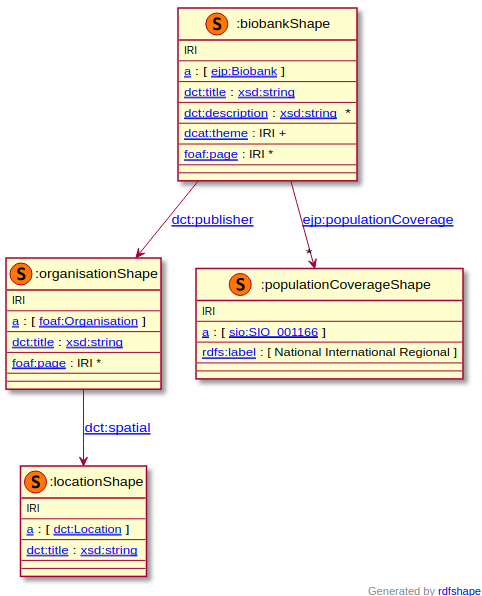
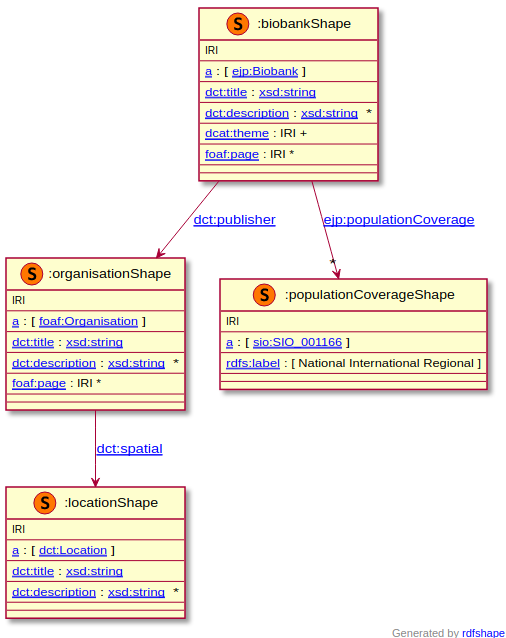
Description property added

Changed region(s): [[0.0, 0.0, 0.9959, 0.9966], [0.7469, 0.9664, 0.9959, 1.0]]

diff --git a/docs/patient-registry.md b/docs/patient-registry.md
@@ -69,6 +69,7 @@ PREFIX rdfs:  <http://www.w3.org/2000/01/rdf-schema#>
 :patientRegistryShape IRI {
   a [ejp:PatientRegistry];
   dct:title xsd:string;
+  dct:description xsd:string*;
   ejp:populationCoverage @:populationCoverageShape*;
   dcat:theme IRI+;
   dct:publisher @:organisationShape;
@@ -78,12 +79,14 @@ PREFIX rdfs:  <http://www.w3.org/2000/01/rdf-schema#>
 :locationShape IRI {
   a [dct:Location];
   dct:title xsd:string;
+  dct:description xsd:string*;
 }
 
 :organisationShape IRI {
   a [foaf:Organisation];
   dct:title xsd:string;
-  dct:spatial @:locationShape;
+  dct:description xsd:string*;
+  dct:spatial @:locationShape*;
   foaf:page IRI*
 }
 

diff --git a/docs/catalog.md b/docs/catalog.md
@@ -57,6 +57,7 @@ PREFIX xsd: <http://www.w3.org/2001/XMLSchema#>
 :catalogShape IRI {
   a [dcat:Catalog];
   dct:title xsd:string;
+  dct:description xsd:string*;
   dct:publisher @:organisationShape;
   ejp:patientRegistry IRI*;
   ejp:biobank IRI*;
@@ -66,12 +67,14 @@ PREFIX xsd: <http://www.w3.org/2001/XMLSchema#>
 :locationShape IRI {
   a [dct:Location];
   dct:title xsd:string;
+  dct:description xsd:string*;
 }
 
 :organisationShape IRI {
   a [foaf:Organisation];
   dct:title xsd:string;
-  dct:spatial @:locationShape;
+  dct:description xsd:string*;
+  dct:spatial @:locationShape*;
   foaf:page IRI
 }
 ```

diff --git a/docs/biobank.md b/docs/biobank.md
@@ -70,6 +70,7 @@ PREFIX rdfs:  <http://www.w3.org/2000/01/rdf-schema#>
 :biobankShape IRI {
   a [ejp:Biobank];
   dct:title xsd:string;
+  dct:description xsd:string*;
   ejp:populationCoverage @:populationCoverageShape*;
   dcat:theme IRI+;
   dct:publisher @:organisationShape;
@@ -79,11 +80,13 @@ PREFIX rdfs:  <http://www.w3.org/2000/01/rdf-schema#>
 :locationShape IRI {
   a [dct:Location];
   dct:title xsd:string;
+  dct:description xsd:string*;
 }
 
 :organisationShape IRI {
   a [foaf:Organisation];
   dct:title xsd:string;
+  dct:description xsd:string*;
   dct:spatial @:locationShape;
   foaf:page IRI*
 }

diff --git a/docs/guideline.md b/docs/guideline.md
@@ -59,6 +59,7 @@ PREFIX rdfs:  <http://www.w3.org/2000/01/rdf-schema#>
 :guidelineShape IRI {
   a [ejp:Guideline];
   dct:title xsd:string;
+  dct:description xsd:string*;
   dcat:theme IRI+;
   dct:publisher @:organisationShape;
   foaf:page IRI*
@@ -67,6 +68,7 @@ PREFIX rdfs:  <http://www.w3.org/2000/01/rdf-schema#>
 :organisationShape IRI {
   a [foaf:Organisation];
   dct:title xsd:string;
+  dct:description xsd:string*;
   foaf:page IRI*
 }
 ```

diff --git a/docs/organisation.md b/docs/organisation.md
@@ -49,12 +49,14 @@ PREFIX xsd: <http://www.w3.org/2001/XMLSchema#>
 :organisationShape IRI {
   a [foaf:Organisation];
   dct:title xsd:string;
-  dct:spatial @:locationShape;
+  dct:description xsd:string*;
+  dct:spatial @:locationShape*;
   foaf:page IRI
 }
 
 :locationShape IRI {
   a [dct:Location];
   dct:title xsd:string;
+  dct:description xsd:string*;
 }
 ```

diff --git a/docs/location.md b/docs/location.md
@@ -42,6 +42,7 @@ PREFIX xsd: <http://www.w3.org/2001/XMLSchema#>
 :locationShape IRI {
   a [dct:Location];
   dct:title xsd:string;
+  dct:description xsd:string*;
 }
 ```
 
